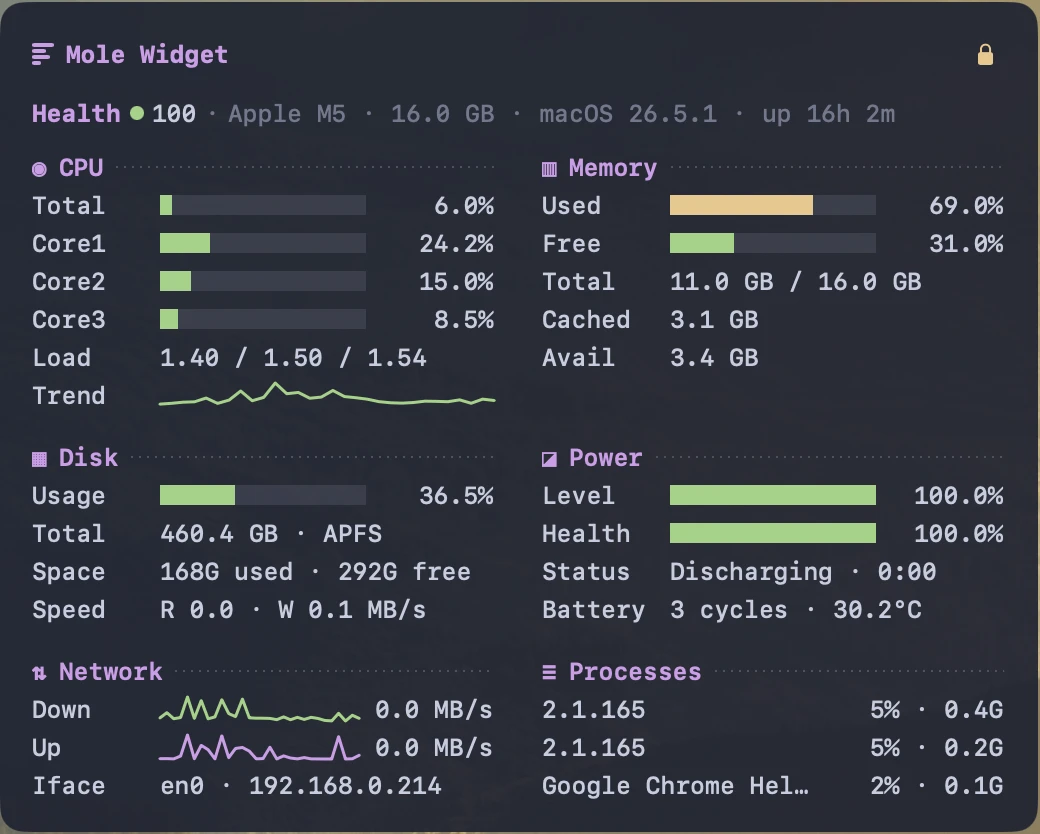
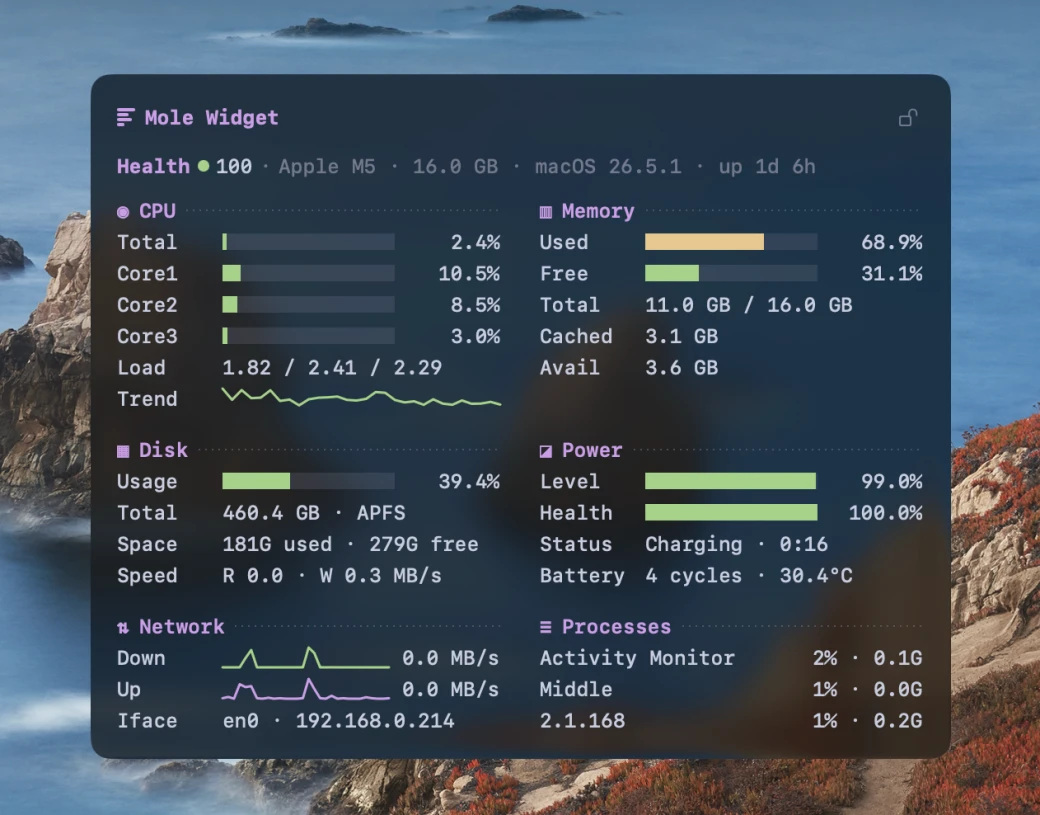
feat: Liquid Glass background on macOS Tahoe; hide Opacity setting on 26+
On macOS 26 (Tahoe) the widget background switches to NSVisualEffectView
(.sidebar, behindWindow) combined with glassEffect(.regular) and a dark
fill for depth, matching the native desktop widget appearance. The Opacity
picker in Settings is hidden on macOS 26+ since the glass manages its own
appearance. Updated README screenshot.

diff --git a/Sources/MoleWidgetCore/Views/WidgetRootView.swift b/Sources/MoleWidgetCore/Views/WidgetRootView.swift
@@ -103,10 +103,7 @@ public struct WidgetRootView: View {
         }
         .font(Theme.font)
         .padding(16)
-        .background(
-            Theme.background.opacity(WidgetSettings.clampOpacity(backgroundOpacity)),
-            in: RoundedRectangle(cornerRadius: 12)
-        )
+        .modifier(WidgetBackground(opacity: backgroundOpacity))
         .overlay(alignment: .trailing) {
             resizeHandle
         }
@@ -236,6 +233,43 @@ public struct WidgetRootView: View {
         .help(positionLocked
             ? "Position and size are locked — click to unlock"
             : "Click to lock the widget position and size")
+    }
+}
+
+// MARK: - Background
+
+/// NSVisualEffectView wrapper — gives the same frosted-glass material native desktop
+/// widgets use (.hudWindow + behindWindow blending). Stays active regardless of
+/// window focus since the widget never becomes key.
+private struct FrostView: NSViewRepresentable {
+    func makeNSView(context: Context) -> NSVisualEffectView {
+        let v = NSVisualEffectView()
+        v.material = .sidebar
+        v.blendingMode = .behindWindow
+        v.state = .active
+        v.appearance = NSAppearance(named: .darkAqua)
+        return v
+    }
+    func updateNSView(_ nsView: NSVisualEffectView, context: Context) {}
+}
+
+/// On macOS 26+ uses NSVisualEffectView (.hudWindow) to match native Tahoe widget
+/// appearance; falls back to the opaque dark panel on earlier systems.
+private struct WidgetBackground: ViewModifier {
+    let opacity: Double
+
+    func body(content: Content) -> some View {
+        if #available(macOS 26, *) {
+            content
+                .background(Color.black.opacity(0.30), in: RoundedRectangle(cornerRadius: 12))
+                .glassEffect(.regular, in: RoundedRectangle(cornerRadius: 12))
+        } else {
+            content
+                .background(
+                    Theme.background.opacity(WidgetSettings.clampOpacity(opacity)),
+                    in: RoundedRectangle(cornerRadius: 12)
+                )
+        }
     }
 }
 

diff --git a/Sources/MoleWidget/MoleWidgetApp.swift b/Sources/MoleWidget/MoleWidgetApp.swift
@@ -61,11 +61,13 @@ struct MoleWidgetApp: App {
             Toggle("Lock position", isOn: $positionLocked)
             LaunchAtLoginToggle()
             Menu("Settings") {
-                Picker("Opacity", selection: $backgroundOpacity) {
-                    Text("100%").tag(1.0)
-                    Text("92%").tag(0.92)
-                    Text("85%").tag(0.85)
-                    Text("70%").tag(0.7)
+                if #unavailable(macOS 26) {
+                    Picker("Opacity", selection: $backgroundOpacity) {
+                        Text("100%").tag(1.0)
+                        Text("92%").tag(0.92)
+                        Text("85%").tag(0.85)
+                        Text("70%").tag(0.7)
+                    }
                 }
                 Picker("Refresh rate", selection: $refreshInterval) {
                     Text("1 s").tag(1.0)

diff --git a/Sources/MoleWidgetCore/CoreInfo.swift b/Sources/MoleWidgetCore/CoreInfo.swift
@@ -1,3 +1,3 @@
 public enum CoreInfo {
-    public static let version = "0.5.1"
+    public static let version = "0.5.2"
 }

diff --git a/Tests/MoleWidgetCoreTests/SmokeTests.swift b/Tests/MoleWidgetCoreTests/SmokeTests.swift
@@ -3,6 +3,6 @@ import Testing
 
 @Suite struct SmokeTests {
     @Test func version() {
-        #expect(CoreInfo.version == "0.5.1")
+        #expect(CoreInfo.version == "0.5.2")
     }
 }